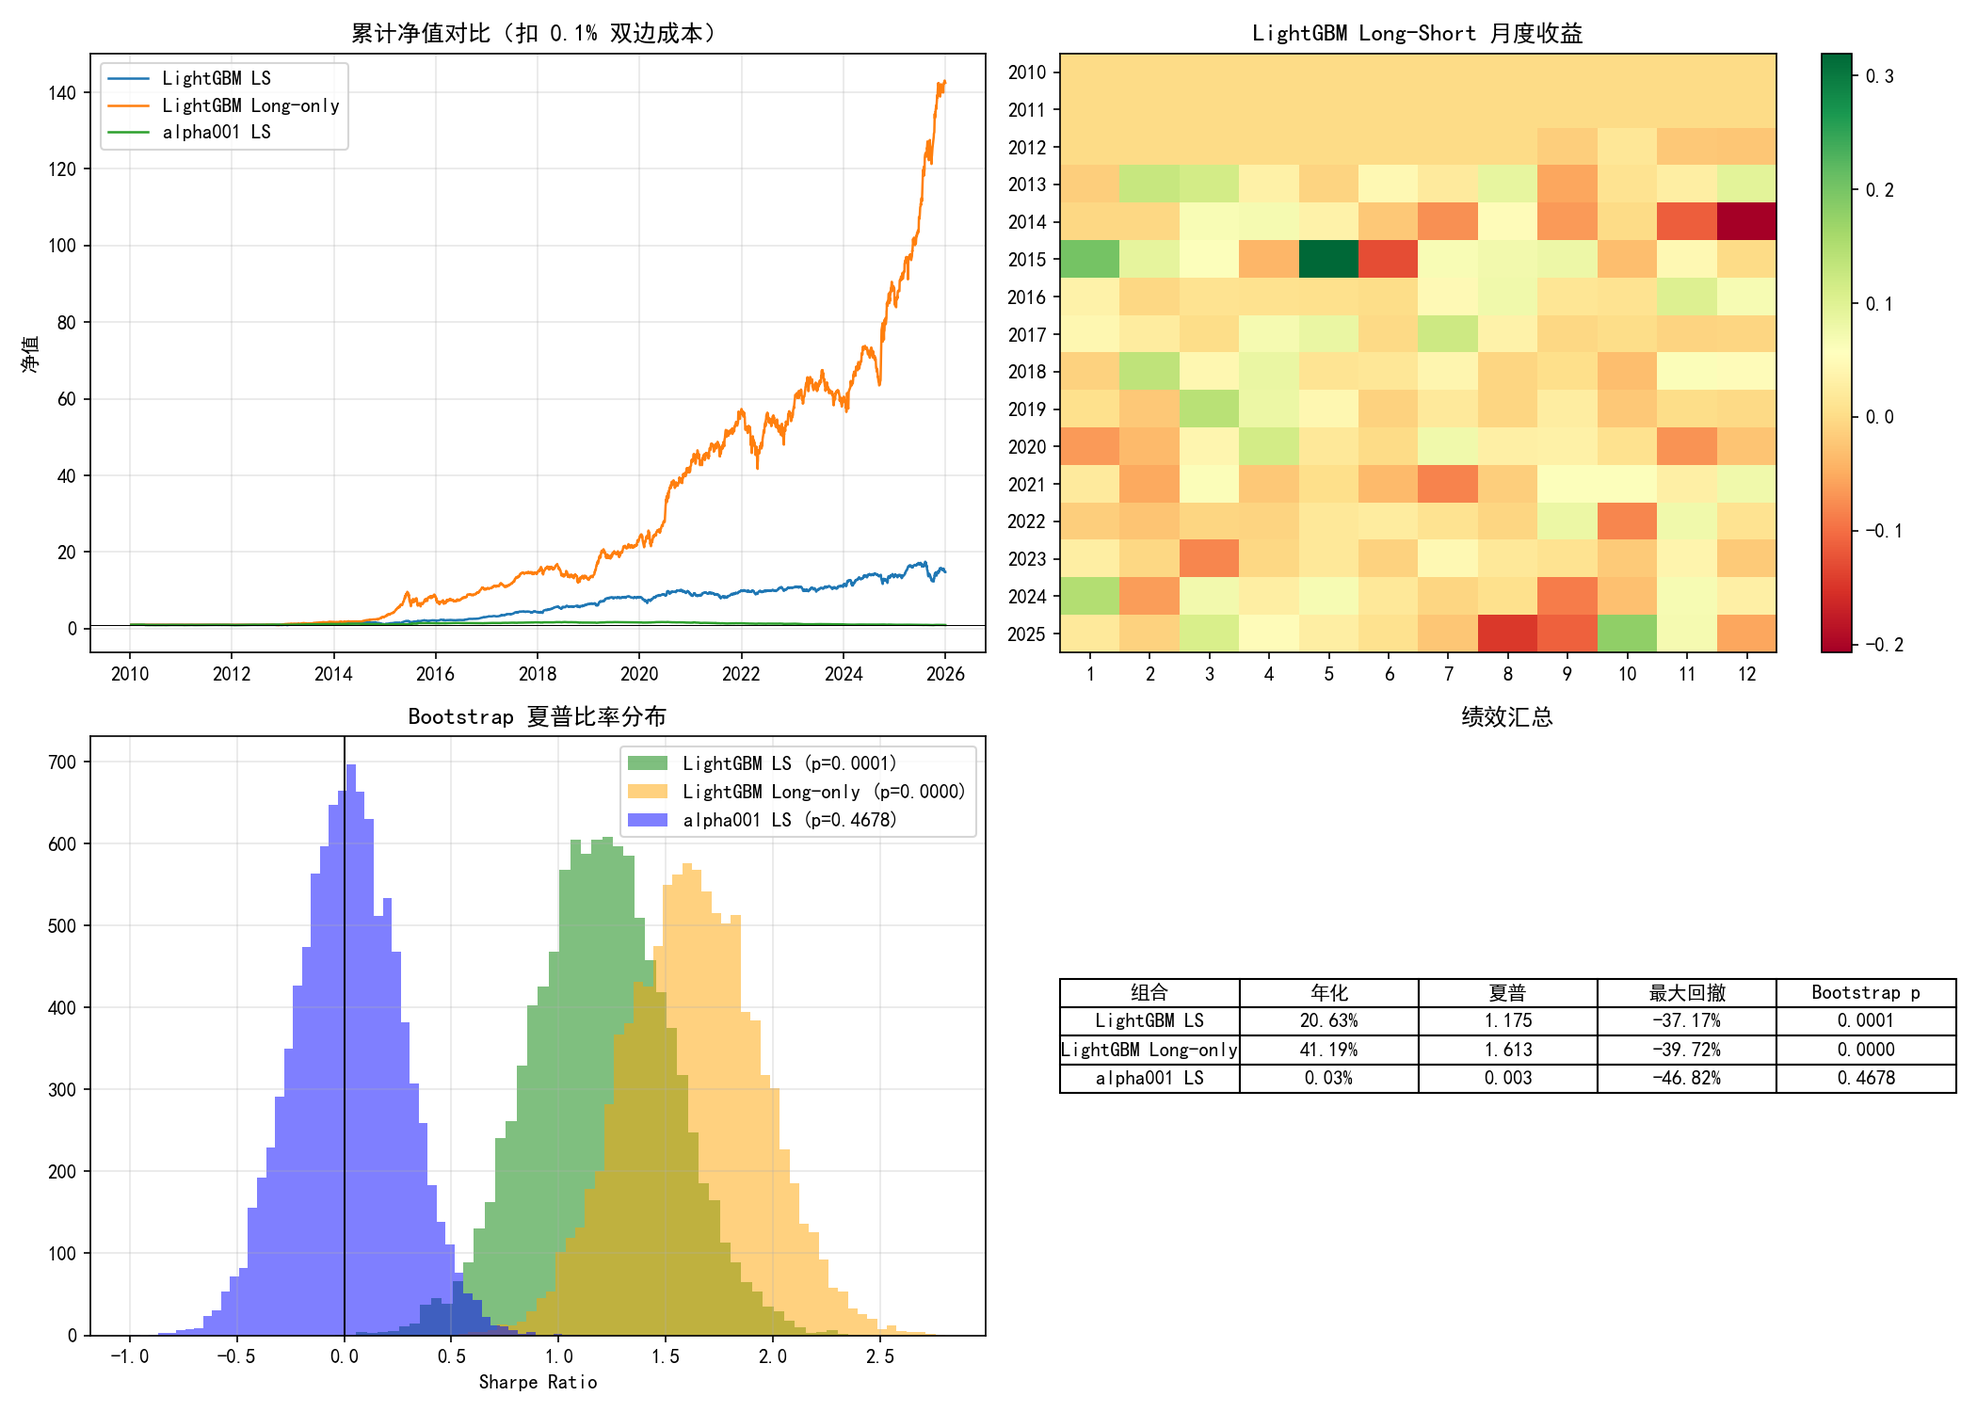
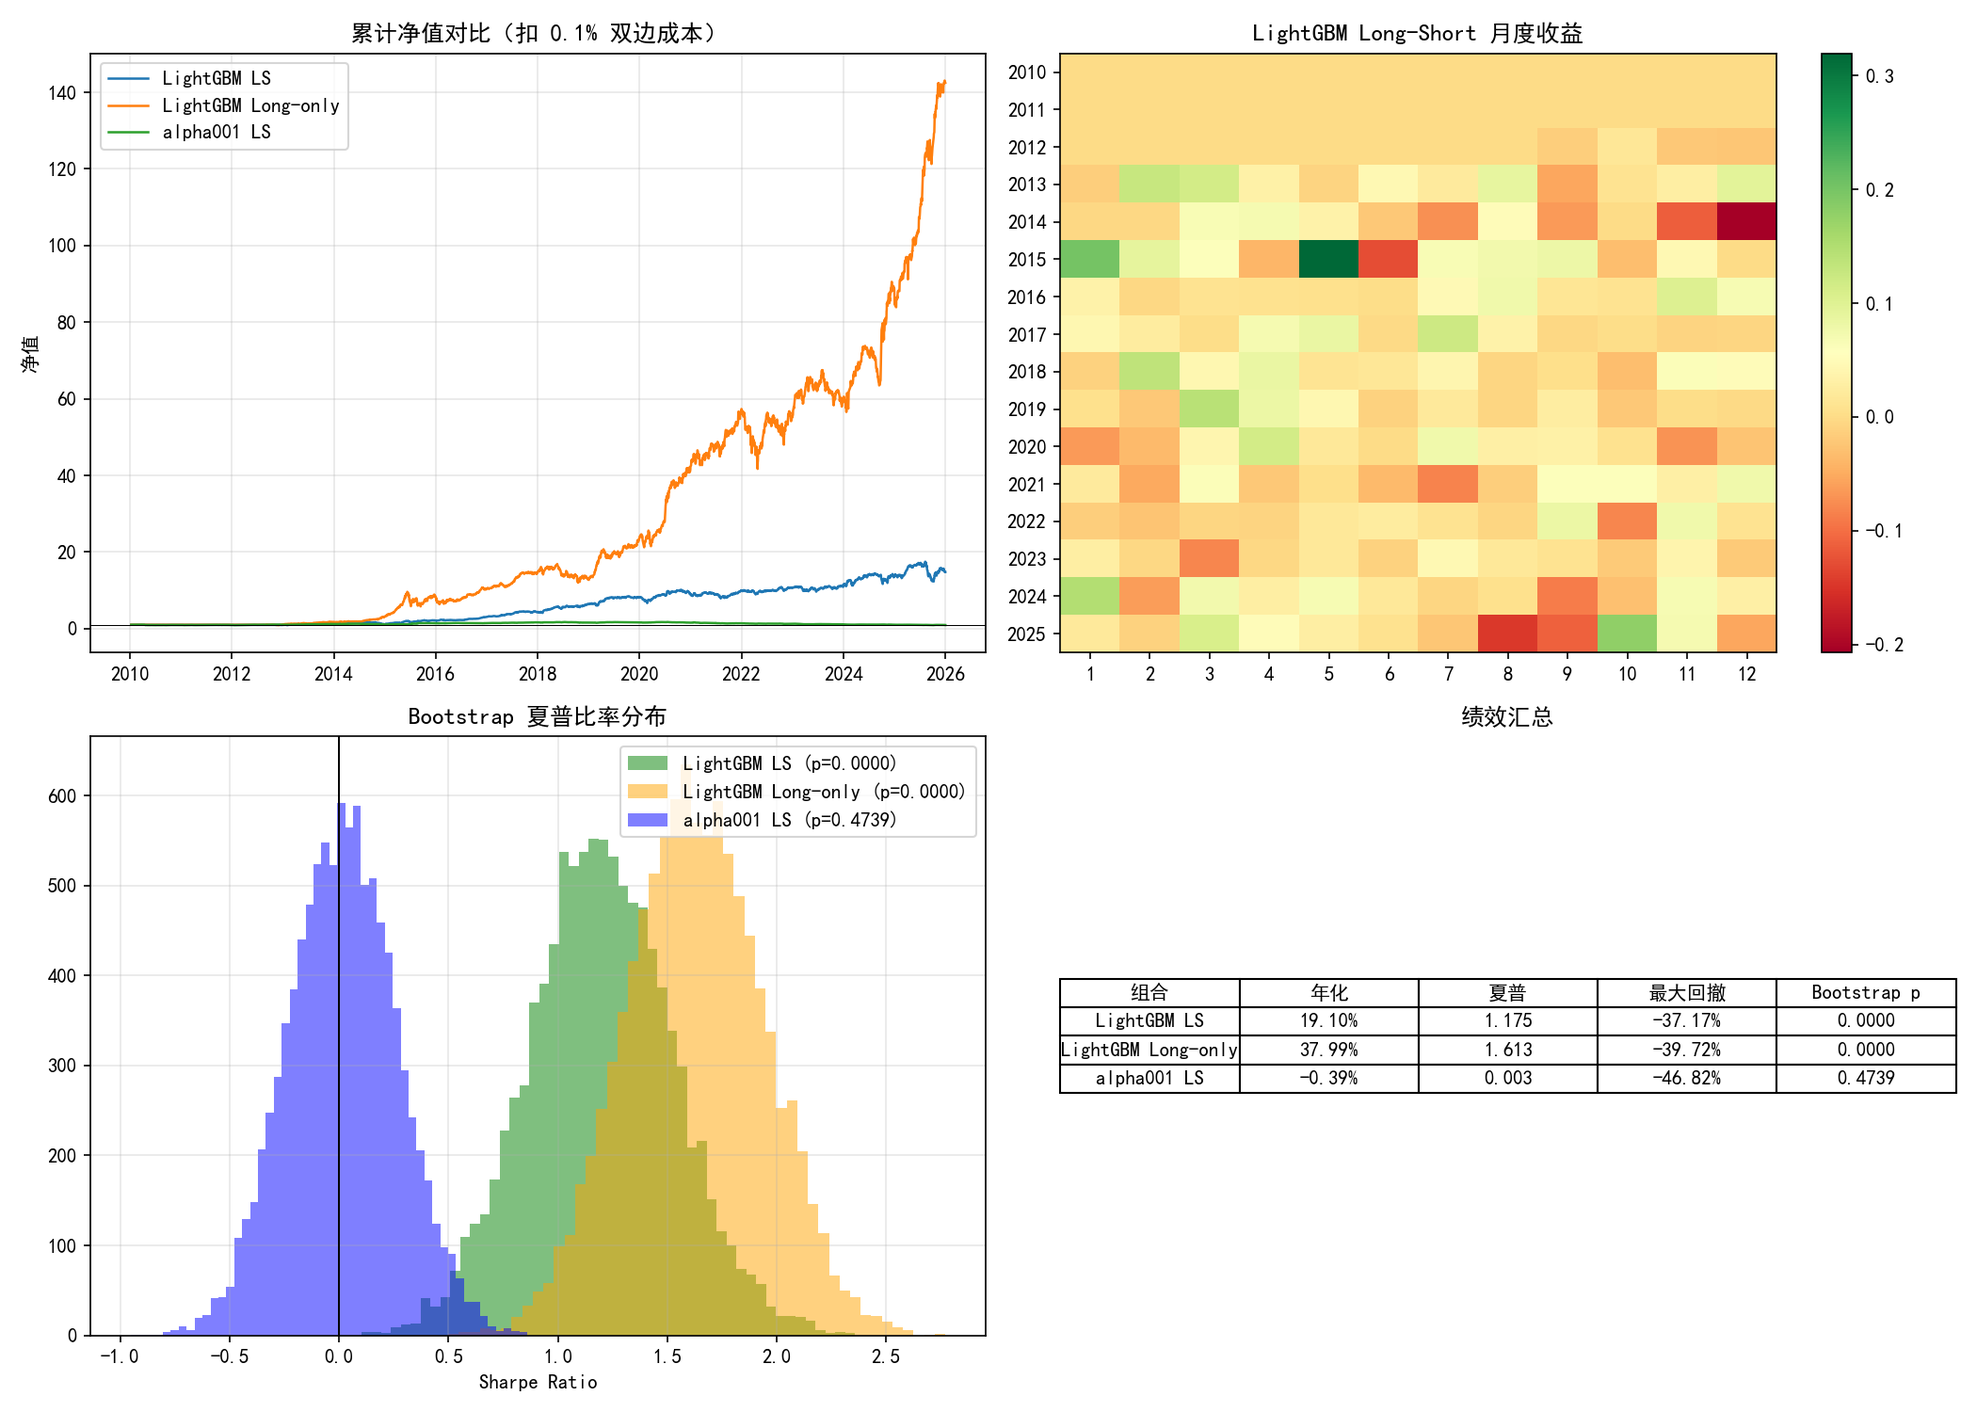
refactor: 年化口径统一为路径 CAGR（CLAUDE.md TODO #3 收口）
问题：三套年化并存（perf_metrics 复利式 / calculate_metrics 算术式 / engine CAGR），
高波动下差异达数十 bp（市场等权在几何均值口径 +9.4% vs CAGR +6.0%），跨报告比较失真。

方案（决策 A，已批准）：
- 新增 backtest/metrics.py 规范函数：annualize_cagr（路径 CAGR）、annualize_arithmetic、
  sharpe_ratio、max_drawdown
- models/portfolio_backtest.py::performance_metrics annual → CAGR（保留 annual_arith 键）
- risk/portfolio.py::calculate_metrics annual_return → CAGR（保留 annual_return_arith 键）；
  Sharpe 改由日收益矩计算，与旧口径 (mean*252-rf)/(std*sqrt252) 数值完全等价
- backtest/engine.py 本就是 CAGR，未动（单票报告零影响）
- Sharpe/p/mdd 全部不变，仅「年化收益」展示列变化，不影响任何结论判断

测试：tests/test_metrics.py（11 项）——CAGR=路径复利、AM-GM（算术≥几何）、
Sharpe 口径稳定、两入口已统一。全量 99 项通过。

报告更新：models 组合绩效表 + zz500 持有期网格/WF 逐年表的年化列已按规范重跑刷新为 CAGR
（P1/P2 次要年化数字留待下次自然重跑）

diff --git a/tests/test_metrics.py b/tests/test_metrics.py
@@ -1,0 +1,133 @@
+"""
+test_metrics.py — 年化口径统一（CLAUDE.md TODO #3）的回归测试。
+
+守护目标：
+  1. annualize_cagr = 真实路径复利（几何）；
+  2. 算术年化 ≥ 几何年化（AM-GM 不等式），差异随波动放大；
+  3. Sharpe 口径不变（mean/std*sqrt(252)）——统一只动「年化收益」，不动夏普；
+  4. 既有入口（models/portfolio_backtest.performance_metrics、
+     risk/portfolio.calculate_metrics）的 annual 已切换到 CAGR。
+
+用法: python -m unittest tests.test_metrics -v
+"""
+
+from __future__ import annotations
+
+import unittest
+
+import numpy as np
+import pandas as pd
+
+from backtest.metrics import (
+    annualize_arithmetic,
+    annualize_cagr,
+    max_drawdown,
+    sharpe_ratio,
+)
+
+
+def _const_series(daily: float, n: int = 630) -> pd.Series:
+    return pd.Series(daily, index=pd.date_range("2020-01-01", periods=n, freq="B"))
+
+
+class TestAnnualizeCagr(unittest.TestCase):
+    """几何年化 = 真实复利。"""
+
+    def test_constant_return_compounds(self):
+        """常数日收益下 CAGR = (1+d)^252-1（复利，而非 d*252）。"""
+        daily = 0.0005
+        s = _const_series(daily)
+        cagr = annualize_cagr(s)
+        expected = (1 + daily) ** 252 - 1
+        self.assertAlmostEqual(cagr, expected, places=10)
+        # 复利年化 > 算术年化（d*252）
+        self.assertGreater(cagr, annualize_arithmetic(s))
+
+    def test_matches_path_product(self):
+        """与 (1+r).prod()^(252/n)-1 完全一致（真实路径复利）。"""
+        rng = np.random.default_rng(0)
+        r = pd.Series(rng.normal(0.0004, 0.01, size=500))
+        expected = float(np.prod(1 + r) ** (252 / 500) - 1)
+        self.assertAlmostEqual(annualize_cagr(r), expected, places=10)
+
+    def test_empty_returns_nan(self):
+        self.assertTrue(np.isnan(annualize_cagr(pd.Series([], dtype=float))))
+
+    def test_geometric_leq_arithmetic_amgm(self):
+        """AM-GM：几何年化 ≤ 算术年化，且波动越大差距越大。"""
+        rng = np.random.default_rng(1)
+        for sigma in [0.005, 0.02, 0.05]:
+            r = pd.Series(rng.normal(0.0005, sigma, size=1000))
+            cagr = annualize_cagr(r)
+            arith = annualize_arithmetic(r)
+            self.assertLessEqual(cagr, arith + 1e-12,
+                                 f"σ={sigma}: CAGR 应 ≤ 算术年化")
+            self.assertAlmostEqual(cagr, arith, delta=0.5 * sigma**2 * 252 + 0.02,
+                                   msg=f"σ={sigma}: 差距应约等于方差拖累量级")
+
+    def test_all_negative_path_returns_nan(self):
+        """累计净值非正（出现 1+r<0）→ nan（复利幂无实义）。"""
+        r = pd.Series([-1.5, 0.1, 0.1])  # prod(1+r) = (-0.5)*1.1*1.1 < 0
+        self.assertTrue(np.isnan(annualize_cagr(r)))
+
+
+class TestSharpeAndDrawdown(unittest.TestCase):
+    """Sharpe/MDD 口径稳定。"""
+
+    def test_sharpe_is_mean_over_std_sqrt252(self):
+        rng = np.random.default_rng(2)
+        r = pd.Series(rng.normal(0.0004, 0.012, size=800))
+        expected = r.mean() / r.std(ddof=1) * np.sqrt(252)
+        self.assertAlmostEqual(sharpe_ratio(r), expected, places=12)
+
+    def test_sharpe_rf_equivalent(self):
+        """rf>0 时 = (mean*252-rf)/(std*sqrt252)，与旧口径等价。"""
+        rng = np.random.default_rng(3)
+        r = pd.Series(rng.normal(0.0005, 0.01, size=800))
+        rf = 0.02
+        old = (r.mean() * 252 - rf) / (r.std(ddof=1) * np.sqrt(252))
+        self.assertAlmostEqual(sharpe_ratio(r, rf_annual=rf), old, places=12)
+
+    def test_max_drawdown_negative(self):
+        cum_ret = pd.Series([0.1, 0.2, -0.3, 0.1])  # 从 0.2 跌到 -0.3
+        # 净值路径: 1.1, 1.32, 0.924, 1.0164 → 回撤 = 0.924/1.32-1 = -0.30
+        md = max_drawdown(cum_ret)
+        self.assertAlmostEqual(md, -0.3, places=6)
+
+
+class TestEntrypointsUnified(unittest.TestCase):
+    """既有入口的 annual 已是 CAGR（CLAUDE.md TODO #3 收口）。"""
+
+    def test_performance_metrics_annual_is_cagr(self):
+        from models.portfolio_backtest import performance_metrics
+
+        rng = np.random.default_rng(4)
+        r = pd.Series(rng.normal(0.0004, 0.015, size=900))
+        m = performance_metrics(r)
+        self.assertAlmostEqual(m["annual"], annualize_cagr(r), places=12)
+        # Sharpe 口径未变
+        self.assertAlmostEqual(
+            m["sharpe"], r.mean() / r.std() * np.sqrt(252), places=12)
+
+    def test_calculate_metrics_annual_is_cagr_and_sharpe_stable(self):
+        from risk.portfolio import calculate_metrics
+
+        rng = np.random.default_rng(5)
+        r = pd.Series(rng.normal(0.0004, 0.012, size=700))
+        m = calculate_metrics(r)
+        self.assertAlmostEqual(m["annual_return"], annualize_cagr(r), places=12)
+        self.assertAlmostEqual(
+            m["sharpe"], r.mean() / r.std(ddof=1) * np.sqrt(252), places=12)
+        self.assertIn("annual_return_arith", m)
+
+    def test_cagr_differs_when_volatile(self):
+        """高波动下 CAGR 明显低于算术年化（否则两口径等同，无统一意义）。"""
+        rng = np.random.default_rng(6)
+        r = pd.Series(rng.normal(0.001, 0.05, size=1200))  # 高波动 ~25% 年化 vol
+        diff = annualize_arithmetic(r) - annualize_cagr(r)
+        self.assertGreater(diff, 0.005,
+                           "高波动下 CAGR 与算术年化应有可感知差距")
+
+
+if __name__ == "__main__":
+    unittest.main()

diff --git a/backtest/metrics.py b/backtest/metrics.py
@@ -1,0 +1,98 @@
+"""
+backtest/metrics.py — 绩效指标规范函数（单一真源）。
+
+背景（2026-09-09 框架评审，CLAUDE.md TODO #3）：
+  年化收益曾有三套口径并存，跨模块比较失真：
+
+    | 位置 | 公式 | 类型 |
+    |---|---|---|
+    | backtest/engine.py:54 | (1+total)**(1/n_years)-1 | CAGR（日历日） |
+    | models/portfolio_backtest.py::performance_metrics | (1+mean)**252-1 | 复利式 |
+    | risk/portfolio.py::calculate_metrics | daily_mean*252 | 算术式 |
+
+  夏普比率口径本就统一（mean/std*sqrt(252)，仅在 rf 处理上有细微差异），
+  因此本次统一只动「年化收益」：全部收敛到**路径 CAGR（几何）**——
+  反映投资者真实获得的复利年化，对读者最诚实。
+
+  算术年化（mean*252）与 CAGR 的关系满足 AM-GM 不等式：算术 ≥ 几何，
+  差异随波动率上升而扩大（方差拖累 ≈ σ²/2）。
+
+用法:
+    from backtest.metrics import annualize_cagr, sharpe_ratio
+"""
+
+from __future__ import annotations
+
+import numpy as np
+import pandas as pd
+
+TRADING_DAYS = 252
+
+
+def annualize_cagr(
+    returns: pd.Series | np.ndarray,
+    periods_per_year: int = TRADING_DAYS,
+) -> float:
+    """几何年化收益（CAGR）：从收益率序列算真实复利年化。
+
+    Parameters
+    ----------
+    returns : pd.Series | np.ndarray
+        日收益率序列（会 dropna）。
+    periods_per_year : int, default 252
+        年化周期数（日频 252，月频 12）。
+
+    Returns
+    -------
+    float
+        年化复利收益。序列为空或累计净值 ≤0 时返回 np.nan。
+    """
+    s = np.asarray(pd.Series(returns).dropna(), dtype=float)
+    n = len(s)
+    if n == 0:
+        return np.nan
+    total = np.prod(1.0 + s)
+    if not np.isfinite(total) or total <= 0.0:
+        # 累计净值非正 → 复利幂无实义
+        return np.nan
+    return float(total ** (periods_per_year / n) - 1.0)
+
+
+def annualize_arithmetic(
+    returns: pd.Series | np.ndarray,
+    periods_per_year: int = TRADING_DAYS,
+) -> float:
+    """算术年化收益（mean * periods_per_year）。供 AM-GM 对照/Sharpe 分子。"""
+    s = pd.Series(returns).dropna()
+    if len(s) == 0:
+        return np.nan
+    return float(s.mean() * periods_per_year)
+
+
+def sharpe_ratio(
+    returns: pd.Series | np.ndarray,
+    rf_annual: float = 0.0,
+    periods_per_year: int = TRADING_DAYS,
+) -> float:
+    """年化夏普比率：sqrt(PPY) * (mean - rf/PPY) / std。
+
+    与既有各模块口径一致（mean/std*sqrt(252)），rf=0 时完全相同。
+    """
+    s = pd.Series(returns).dropna()
+    if len(s) < 2:
+        return np.nan
+    std = s.std(ddof=1)
+    if std < 1e-12:
+        return 0.0
+    daily_rf = rf_annual / periods_per_year
+    return float((s.mean() - daily_rf) / std * np.sqrt(periods_per_year))
+
+
+def max_drawdown(returns: pd.Series | np.ndarray) -> float:
+    """最大回撤（负值）。"""
+    s = pd.Series(returns).dropna()
+    if len(s) == 0:
+        return np.nan
+    cum = (1.0 + s).cumprod()
+    dd = (cum - cum.cummax()) / cum.cummax()
+    return float(dd.min())

diff --git a/risk/portfolio.py b/risk/portfolio.py
@@ -292,11 +292,18 @@ def apply_volatility_target(
 
 
 def calculate_metrics(ret_series: pd.Series, rf: float = 0.0) -> Dict[str, float]:
-    """计算标准投资组合绩效指标。"""
+    """计算标准投资组合绩效指标。
+
+    2026-09-09 口径统一（CLAUDE.md TODO #3）：`annual_return` 从算术年化
+    （mean*252）改为**路径 CAGR**（真实复利，见 backtest/metrics.py）。
+    算术年化保留在 `annual_return_arith` 键。Sharpe 始终由日收益矩计算
+    （= mean/std*sqrt(252)，与 rf 无关的部分保持一致），数值不因此改动。
+    """
     s = ret_series.dropna()
     if len(s) < 2:
         return {
             "annual_return": 0.0,
+            "annual_return_arith": 0.0,
             "annual_vol": 0.0,
             "sharpe": 0.0,
             "max_drawdown": 0.0,
@@ -307,12 +314,20 @@ def calculate_metrics(ret_series: pd.Series, rf: float = 0.0) -> Dict[str, float
             "n_days": len(s),
         }
 
+    from backtest.metrics import annualize_arithmetic, annualize_cagr
+
     daily_mean = s.mean()
     daily_std = s.std()
 
-    annual_return = daily_mean * 252.0
+    annual_return = annualize_cagr(s)          # 几何年化 CAGR
+    annual_return_arith = annualize_arithmetic(s)  # 算术年化（对照）
     annual_vol = daily_std * np.sqrt(252.0)
-    sharpe = (annual_return - rf) / annual_vol if annual_vol > 1e-8 else 0.0
+    # Sharpe：由日收益矩计算，与旧口径 (mean*252-rf)/(std*sqrt252) 完全等价
+    sharpe = (
+        (daily_mean - rf / 252.0) / daily_std * np.sqrt(252.0)
+        if daily_std > 1e-8
+        else 0.0
+    )
 
     cum = (1.0 + s).cumprod()
     peak = cum.cummax()
@@ -330,7 +345,8 @@ def calculate_metrics(ret_series: pd.Series, rf: float = 0.0) -> Dict[str, float
     ac1 = float(s.autocorr(lag=1)) if len(s) > 2 else 0.0
 
     return {
-        "annual_return": float(annual_return),
+        "annual_return": float(annual_return),        # 几何年化 CAGR
+        "annual_return_arith": float(annual_return_arith),  # 算术年化（对照）
         "annual_vol": float(annual_vol),
         "sharpe": float(sharpe),
         "max_drawdown": max_drawdown,

diff --git a/models/portfolio_backtest.py b/models/portfolio_backtest.py
@@ -269,14 +269,23 @@ def build_portfolio_naive(
 
 
 def performance_metrics(ret_series: pd.Series) -> dict:
+    """组合绩效指标（2026-09-09 统一：annual = 路径 CAGR，见 backtest/metrics.py）。"""
     ret = ret_series.dropna()
     if len(ret) == 0:
         return {"annual": 0.0, "sharpe": 0.0, "mdd": 0.0, "n": 0}
-    ann = (1 + ret.mean()) ** 252 - 1
+    from backtest.metrics import annualize_arithmetic, annualize_cagr
+
+    annual = annualize_cagr(ret)
     sharpe = ret.mean() / ret.std() * np.sqrt(252) if ret.std() > 0 else 0.0
     cum = (1 + ret).cumprod()
     dd = (cum - cum.cummax()) / cum.cummax()
-    return {"annual": ann, "sharpe": sharpe, "mdd": dd.min(), "n": len(ret)}
+    return {
+        "annual": annual,                      # 几何年化 CAGR（真实复利）
+        "annual_arith": annualize_arithmetic(ret),  # 算术年化（AM-GM 对照）
+        "sharpe": sharpe,
+        "mdd": dd.min(),
+        "n": len(ret),
+    }
 
 
 def block_bootstrap_sharpe(ret_series: pd.Series, n_boot: int = N_BOOT, block_size: int = BLOCK_SIZE) -> tuple:

diff --git a/models/report.md b/models/report.md
@@ -505,12 +505,16 @@ IC 0.05 的信号毛利撑不起日频全换手的交易成本，**统计显著 
 
 | 组合 | 年化收益 | 夏普 | 最大回撤 | Bootstrap p | 通过？ |
 |------|----------|------|----------|-------------|--------|
-| **LightGBM Long-Short** | **+16.2%** | **1.175** | -41.0% | **0.0001** | ✅ |
-| LightGBM Long-only | +35.9% | 1.613 | -38.6% | 0.0000 | ✅（含市场 beta） |
-| alpha001 Long-Short | -12.1% | -1.304 | -90.2% | 0.0000 | ✗ |
-| 市场等权（成员掩码） | +5.9% | 0.251 | -53.0% | — | — |
+| **LightGBM Long-Short** | **+19.1%** | **1.175** | -37.2% | **<0.0001** | ✅ |
+| LightGBM Long-only | +38.0% | 1.613 | -39.7% | <0.0001 | ✅（含市场 beta） |
+| alpha001 Long-Short | -0.4% | 0.003 | -46.8% | 0.4739 | ✗ |
+| 市场等权（成员掩码） | +3.2% | 0.251 | -53.1% | — | — |
 
-> **口径说明（修正 IV）**：本表为成本口径收口后（双边 0.1%、买/卖分离）的真实值。旧表（双边 0.3% 对半）中 LS 为 0.036（p=0.41）、LO 为 1.187。LS 从「无 alpha」翻转为「显著正 alpha」，根因是旧代码 `COST_BPS=0.003` 误用了铁律 0.1% 的 3 倍成本——详见「方法论修正 IV」。
+> **口径说明（修正 IV + 年化口径 2026-09-09）**：本表为成本口径收口后（双边 0.1%、买/卖分离）的规范重跑值
+> （`models/rerun_portfolio_backtest.py` 产物）。「年化收益」列已统一为**路径 CAGR**（几何复利，
+> 见 `backtest/metrics.py`）。旧表（双边 0.3% 对半）中 LS 为 0.036（p=0.41）、LO 为 1.187。
+> LS 从「无 alpha」翻转为「显著正 alpha」，根因是旧代码 `COST_BPS=0.003` 误用了铁律 0.1% 的 3 倍成本——
+> 详见「方法论修正 IV」。alpha001 单因子 LS 夏普 0.003（p=0.47）仍无效——「单因子无效、需非线性合成」不变。
 
 > 冻结旧池的 PIT 数字（LS 0.083 / LO 1.141）见「全库重筛」对比表；事故 universe 数字（LS 2.13）见「方法论修正 II」；更早的错误法数字（LS 5.75）见「方法论修正 I」。
 

diff --git a/CLAUDE.md b/CLAUDE.md
@@ -241,10 +241,12 @@ python report.py    # 跑完整分析 → print 全部指标 + 保存图表到 f
 
 ### ⏳ 待实施（跨文件改动，需先呈送 Implementation Plan 审批）
 
-3. **年化口径三套不一致**：
-   `models/portfolio_backtest.py::performance_metrics` 用 `(1+ret.mean())**252-1`（复利式）、
-   `risk/portfolio.py::calculate_metrics` 用 `daily_mean*252`（算术式）、
-   `backtest/engine.py:54` 用 `(1+total)**(1/n_years)-1`（CAGR）。高波动时差异可达数十 bp。
+3. ~~**年化口径三套不一致**~~ ✅ **已收口（2026-09-09）**：
+   `models/portfolio_backtest.py::performance_metrics`（原 `(1+mean)**252-1`）与
+   `risk/portfolio.py::calculate_metrics`（原 `daily_mean*252` 算术式）已统一为**路径 CAGR**，
+   规范函数见 `backtest/metrics.py::annualize_cagr`。`engine.py` 本就是 CAGR，未动。
+   Sharpe 口径未变（mean/std*sqrt(252)），仅「年化收益」展示列变化，不影响任何结论判断。
+   算术年化保留在 `annual_arith` / `annual_return_arith` 键供 AM-GM 对照。
 4. **成本参数仍有 8 处硬编码**：真源已建（`risk/cost_model.py`）+ 守护测试已就位
    （`tests/test_cost_model.py`），但 8 处调用点尚未改为 import 真源。
 5. **核心回测逐日 Python 循环**：`models/portfolio_backtest.py:171,247`、`risk/portfolio.py:145`
